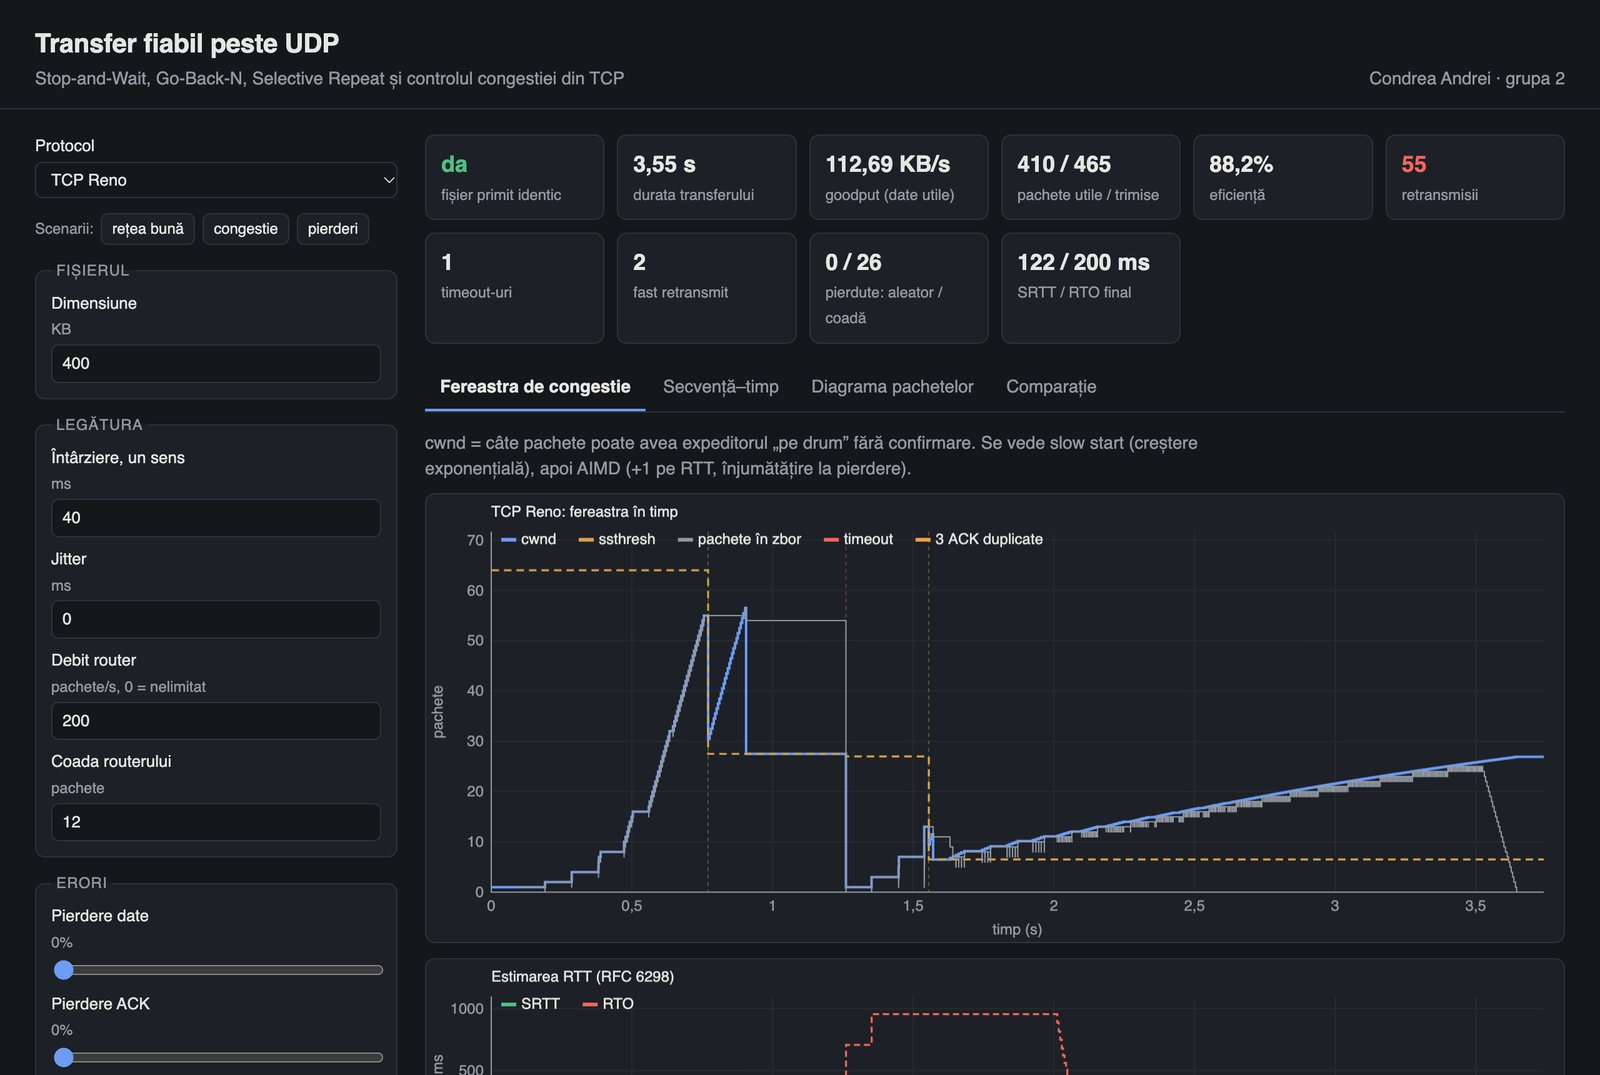
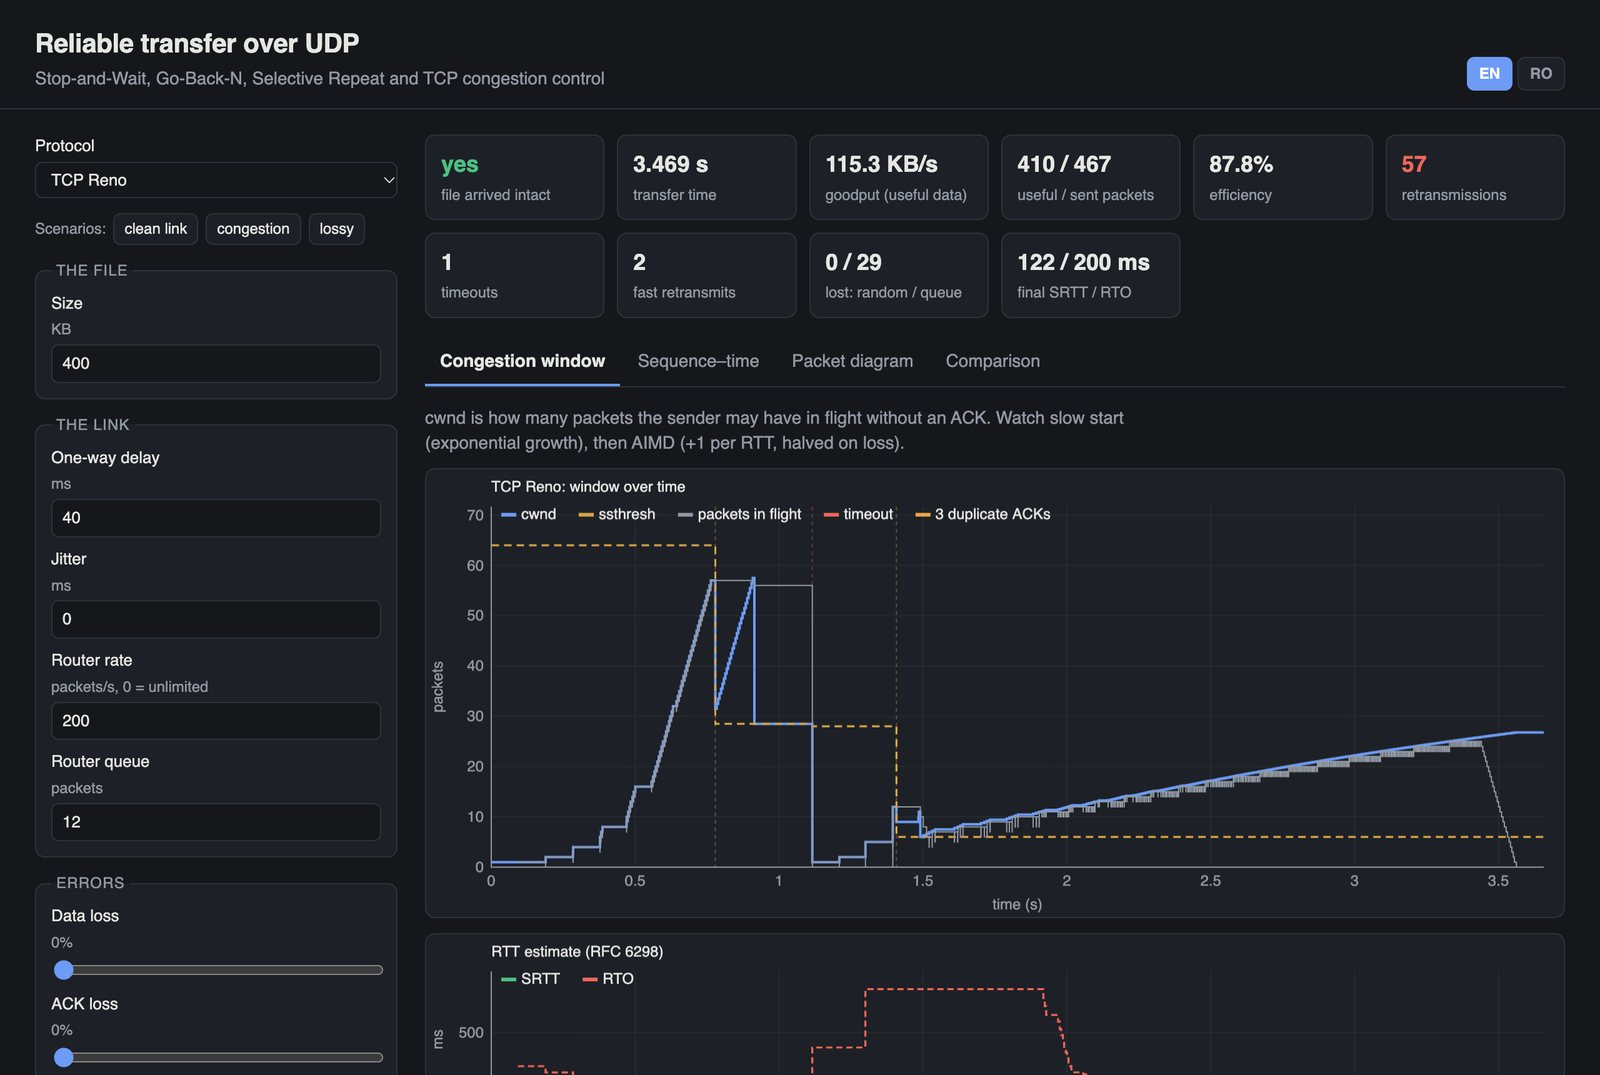
docs: English charts and screenshots in the README
figures.py draws the same charts with English labels for the README;
the Romanian ones stay with the report. The screenshots show the
English interface, and the course note moves to the end.

diff --git a/README.md b/README.md
@@ -16,14 +16,14 @@ implemented over UDP and drawn packet by packet.</strong></p>
   &nbsp;·&nbsp;
   <a href="#results">Results</a>
   &nbsp;·&nbsp;
-  <a href="referat/Referat_TCP_Condrea_Andrei.pdf">Report (RO, PDF)</a>
+  <a href="docs/report/Referat_TCP_Condrea_Andrei.pdf">Written report (RO)</a>
   &nbsp;·&nbsp;
   <a href="README.ro.md">Citește în română</a>
 </p>
 
 <p>
   <a href="https://github.com/AndrewTechTips/tcp-congestion-lab/actions/workflows/tests.yml"><img src="https://github.com/AndrewTechTips/tcp-congestion-lab/actions/workflows/tests.yml/badge.svg" alt="Tests" /></a>
-  <img src="https://img.shields.io/badge/python-3.8%2B-3776AB?logo=python&logoColor=white" alt="Python 3.8+" />
+  <img src="https://img.shields.io/badge/python-3.10%2B-3776AB?logo=python&logoColor=white" alt="Python 3.10+" />
   <img src="https://img.shields.io/badge/dependencies-none-2ea44f" alt="No dependencies" />
   <img src="https://img.shields.io/badge/tests-16%20passing-2ea44f" alt="16 tests" />
   <a href="LICENSE"><img src="https://img.shields.io/badge/license-MIT-blue" alt="MIT licence" /></a>
@@ -40,9 +40,6 @@ This project puts a deliberately bad network between a sender and a receiver: pr
 random loss, flipped bits, and a router that forwards 200 packets a second and drops whatever does
 not fit in its queue. Then it runs six reliable-transfer protocols across it and records every
 packet, ACK, timeout and window change.
-
-It was my project for the Computer Networks course (3rd year, Computer Science). The written
-report, in Romanian, is in [`referat/`](referat/).
 
 ## Highlights
 
@@ -74,10 +71,11 @@ report, in Romanian, is in [`referat/`](referat/).
 
 The interface has four views: the congestion window with ssthresh and loss events, the
 sequence–time plot, the packet diagram, and a comparison that runs every protocol at 0–10% loss.
+It speaks English and Romanian; the switch is in the top corner.
 
 ## Quick start
 
-You need Python 3.8 or newer. Nothing to install.
+You need Python 3.10 or newer. Nothing to install.
 
 ```bash
 git clone https://github.com/AndrewTechTips/tcp-congestion-lab.git
@@ -85,14 +83,13 @@ cd tcp-congestion-lab
 python3 server.py            # opens http://localhost:8000
 ```
 
-Pick a protocol, press **congestie** (congestion) or **pierderi** (losses), then
-**Pornește transferul** (start the transfer).
+Pick a protocol, press **congestion** or **lossy**, then **Start the transfer**.
 
 From the terminal:
 
 ```bash
 python3 run.py --mode reno --size 500 --loss 0.02   # one transfer, with statistics
-python3 compare.py --runs 5                         # every protocol at 0–10% loss -> rezultate/
+python3 compare.py --runs 5                         # every protocol at 0–10% loss -> results/
 python3 fairness.py                                 # two flows through one router
 python3 -m unittest -v                              # the test suite
 ```
@@ -100,10 +97,10 @@ python3 -m unittest -v                              # the test suite
 ## Results
 
 All numbers come from this repository and can be reproduced with the commands above
-(`python3 figuri.py` redraws every chart).
+(`python3 figures.py` redraws every chart).
 
 <p align="center">
-  <img src="referat/figuri/fig_reno_cwnd.png" width="760" alt="TCP Reno congestion window over 9 seconds: slow start to 55, a timeout at 1.25 s, then a regular sawtooth between 15 and 31 packets" />
+  <img src="docs/assets/figures/fig_reno_cwnd.png" width="760" alt="TCP Reno congestion window over 9 seconds: slow start to 55, a timeout at 1.25 s, then a regular sawtooth between 15 and 31 packets" />
 </p>
 
 **TCP Reno finds the link on its own.** Slow start doubles the window every RTT and overshoots to
@@ -113,7 +110,7 @@ sawtooth between 15 and 31 packets. Even after each halving, the window still co
 bandwidth-delay product, so the link stays busy.
 
 <p align="center">
-  <img src="referat/figuri/fig_comparatie.png" width="760" alt="Goodput against loss rate for six protocols: Go-Back-N falls from 84 to 9 KB/s, the TCP variants stay highest at 10% loss" />
+  <img src="docs/assets/figures/fig_comparatie.png" width="760" alt="Goodput against loss rate for six protocols: Go-Back-N falls from 84 to 9 KB/s, the TCP variants stay highest at 10% loss" />
 </p>
 
 | Goodput (KB/s), mean of 5 runs | 0% | 1% | 2% | 5% | 10% |
@@ -132,12 +129,12 @@ repairs one loss per RTT, and there were more than 20 of them. That is the gap S
 real loss the picture flips: Go-Back-N collapses and the TCP variants hold up best.
 
 <p align="center">
-  <img src="referat/figuri/fig_echitate.png" width="760" alt="Two Reno flows through one router: the second joins at 4 s and within a few seconds both run near 100 packets/s, Jain index 0.995" />
+  <img src="docs/assets/figures/fairness.png" width="760" alt="Two Reno flows through one router: the second joins at 4 s and within a few seconds both run near 100 packets/s, Jain index 0.996" />
 </p>
 
 **AIMD is fair in practice.** Two Reno flows share one router. The second joins after four
-seconds, and within a few cycles they split the link at about 107 and 92 packets a second.
-Jain's fairness index comes out at 0.995, where 1 means a perfectly even split.
+seconds, and within a few cycles they split the link at about 106 and 93 packets a second.
+Jain's fairness index comes out at 0.996, where 1 means a perfectly even split.
 
 ## How it works
 
@@ -181,8 +178,15 @@ a clean link and with 5% data loss, 3% ACK loss and 2% corrupted packets.
 
 `wireshark/rdt.lua` is a dissector for the protocol: copy it into Wireshark's personal plugins
 folder and captures show `DATA seq=12 len=1000` or `ACK 13` instead of raw UDP bytes.
-`wireshark/captura.sh` runs a lossy Reno transfer between two processes and records it with
+`wireshark/capture.sh` runs a lossy Reno transfer between two processes and records it with
 `tcpdump` on the loopback interface (it asks for your password, since capturing needs root).
+
+## Background
+
+I built this for the Computer Networks course in my third year of Computer Science, to see the
+mechanisms from the lectures actually run instead of reading about them. The write-up, in
+Romanian, is in [`docs/report/`](docs/report/): theory, design, the full results and a protocol
+specification.
 
 ## Licence
 

diff --git a/README.ro.md b/README.ro.md
@@ -10,12 +10,12 @@ Selective Repeat și trei variante de TCP (Tahoe, Reno, NewReno). Între
 expeditor și receptor stă o legătură simulată care pierde, întârzie și strică
 pachete, plus un router cu coadă finită. Așa apare congestia și pe localhost.
 
-Partea teoretică și rezultatele sunt în `referat/`.
+Partea teoretică și rezultatele sunt în `docs/report/`.
 
 ## Ce trebuie instalat
 
-Doar Python 3.8 sau mai nou. Programul în sine folosește numai biblioteca
-standard. `matplotlib` trebuie doar pentru `figuri.py`.
+Doar Python 3.10 sau mai nou. Programul în sine folosește numai biblioteca
+standard. `matplotlib` trebuie doar pentru `figures.py`.
 
 ## Cum se rulează
 
@@ -28,16 +28,17 @@ python3 server.py
 Se deschide singură la http://localhost:8000. Alegi protocolul, setezi
 pierderile și debitul routerului și apeși „Pornește transferul”. Ai patru
 grafice: fereastra de congestie, secvență–timp, diagrama pachetelor și o
-comparație între toate protocoalele.
+comparație între toate protocoalele. Interfața pornește în engleză; butonul
+RO din colțul de sus o trece în română.
 
 Din terminal:
 
 ```
 python3 run.py --mode reno --size 500 --loss 0.02
 python3 run.py --mode gbn --window 10 --loss 0.05
-python3 compare.py --runs 5        # tabelul cu toate protocoalele -> rezultate/
+python3 compare.py --runs 5        # tabelul cu toate protocoalele -> results/
 python3 fairness.py                # doua fluxuri prin acelasi router, indicele Jain
-python3 figuri.py                  # graficele din referat -> referat/figuri/
+python3 figures.py --lang ro       # graficele din referat -> docs/report/figures/
 python3 -m unittest -v             # testele automate (16 teste)
 ```
 
@@ -47,7 +48,7 @@ python3 -m unittest -v             # testele automate (16 teste)
 2. Copiezi `wireshark/rdt.lua` in folderul de plugin-uri personale
    (`~/.local/lib/wireshark/plugins/` pe macOS/Linux) si repornesti Wireshark.
    Asa Wireshark afiseaza campurile antetului nostru (tip, seq, ack, lungime, checksum).
-3. Rulezi `bash wireshark/captura.sh` (cere parola, tcpdump are nevoie de drepturi).
+3. Rulezi `bash wireshark/capture.sh` (cere parola, tcpdump are nevoie de drepturi).
    Captura se salveaza in `wireshark/transfer_reno.pcap`.
 4. O deschizi in Wireshark. Filtre utile: `rdt`, `rdt.type == 1` (doar ACK-uri).
 
